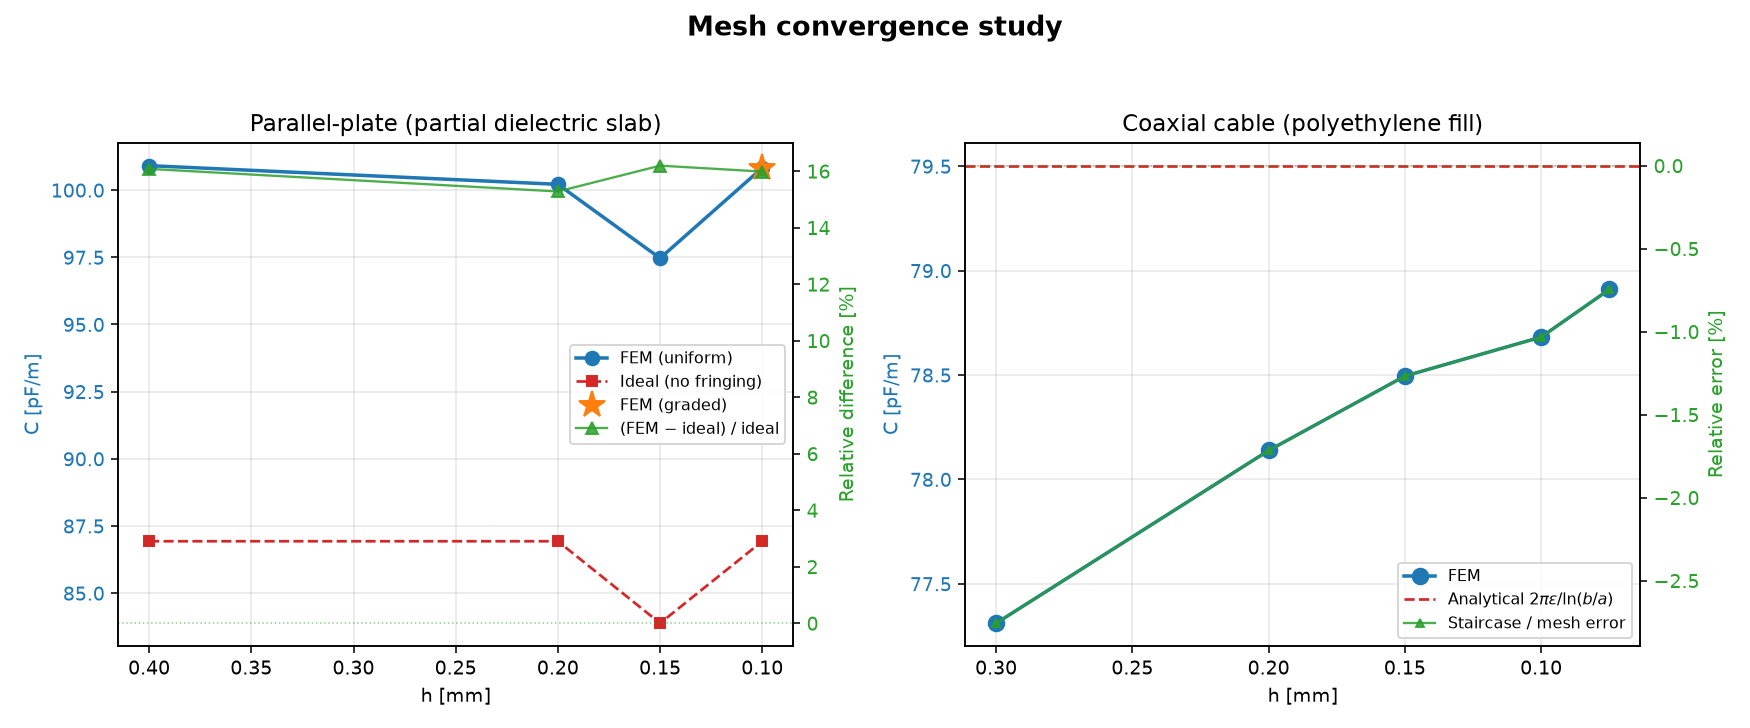
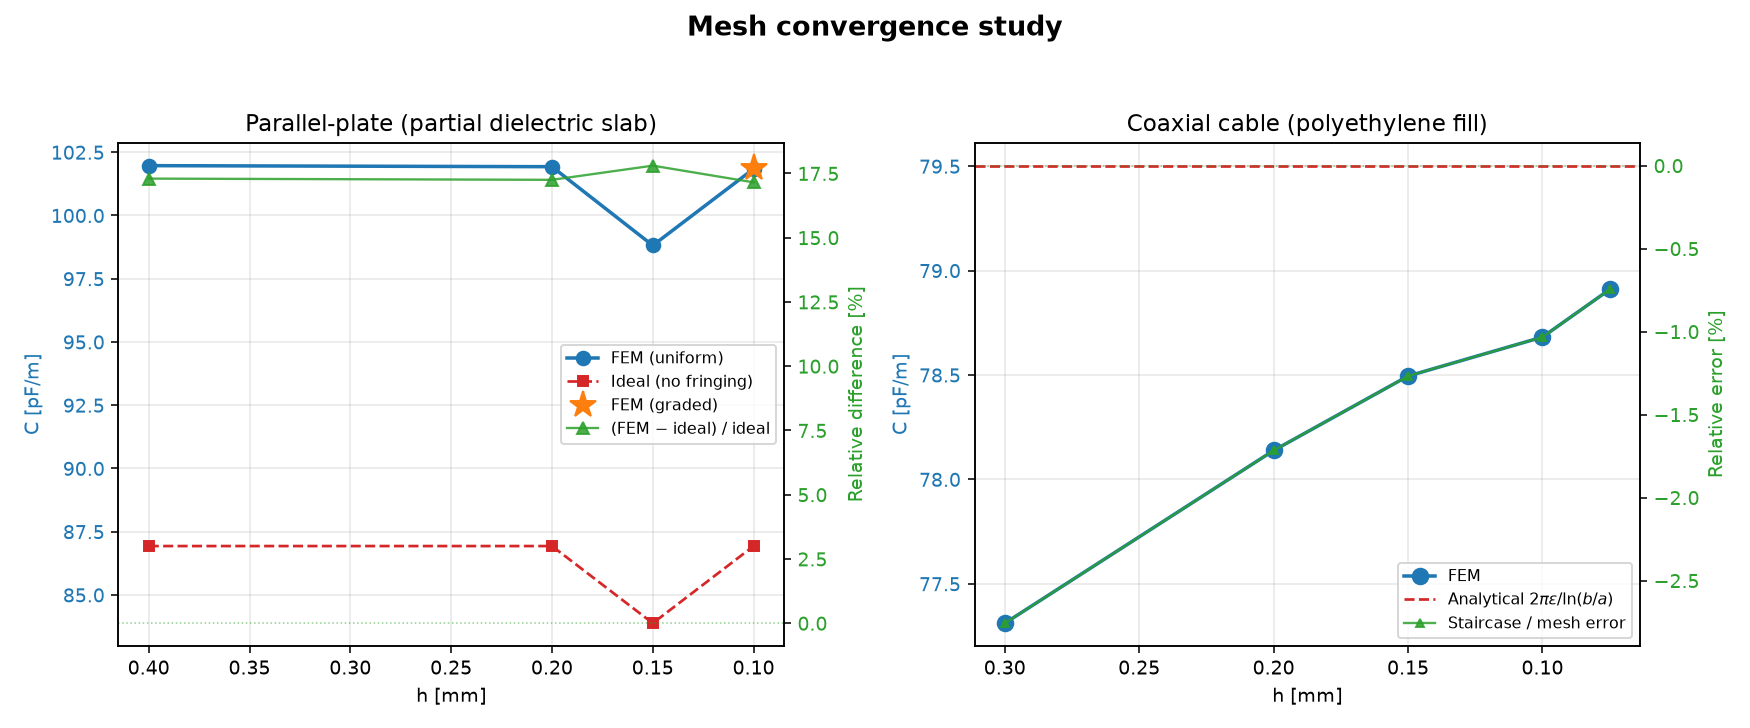
modified:   Android/Development/capacitor_fem_PyDroid_rounded_edges.py  file:   Android/Development/compare_edges_rounded.png new file:   Android/Development/compare_edges_sharp.png modified:   Android/Development/convergence_study.png modified:   Android/Development/example1_parallel_plate.png

diff --git a/Android/Development/capacitor_fem_PyDroid_rounded_edges.py b/Android/Development/capacitor_fem_PyDroid_rounded_edges.py
@@ -61,7 +61,7 @@ FORCE_SAVE_ONLY_ON_ANDROID: bool = True
 PLOT_WAIT_TIMEOUT_S: float = 10.0   # kept only for desktop fallback
 
 # --- I/O ----------------------------------------------------------------------
-OUTPUT_DIR: str = ""
+OUTPUT_DIR: str = "Android/Development"
 """Directory for output figures.  Empty string → current working directory."""
 
 # --- Numerical tolerances -----------------------------------------------------
@@ -1789,6 +1789,22 @@ def print_summary(C1, C1_ideal, C2, C2_ideal, elapsed):
 # 11. MAIN
 # =============================================================================
 
+# =============================================================================
+# 11a. Optional Comparison of sharp versus rounded edge and plot both 
+#     on one shared |E| color scale.
+# =============================================================================
+
+"""
+config = ParallelPlateConfig()
+
+r_sharp, r_rounded = compare_parallel_plate_edge_treatments(
+    config,
+    edge_radius=0.5e-3,       # radius for the rounded run (optional – defaults to max allowed)
+    h=0.1e-3,                 # mesh spacing (optional – defaults to config.mesh_spacing)
+    use_graded=True,          # True = graded mesh, False = uniform
+    fname_prefix="compare_edges"   # files will be compare_edges_sharp.png / _rounded.png
+)
+"""
 if __name__ == "__main__":
     t_start = time.time()
 
